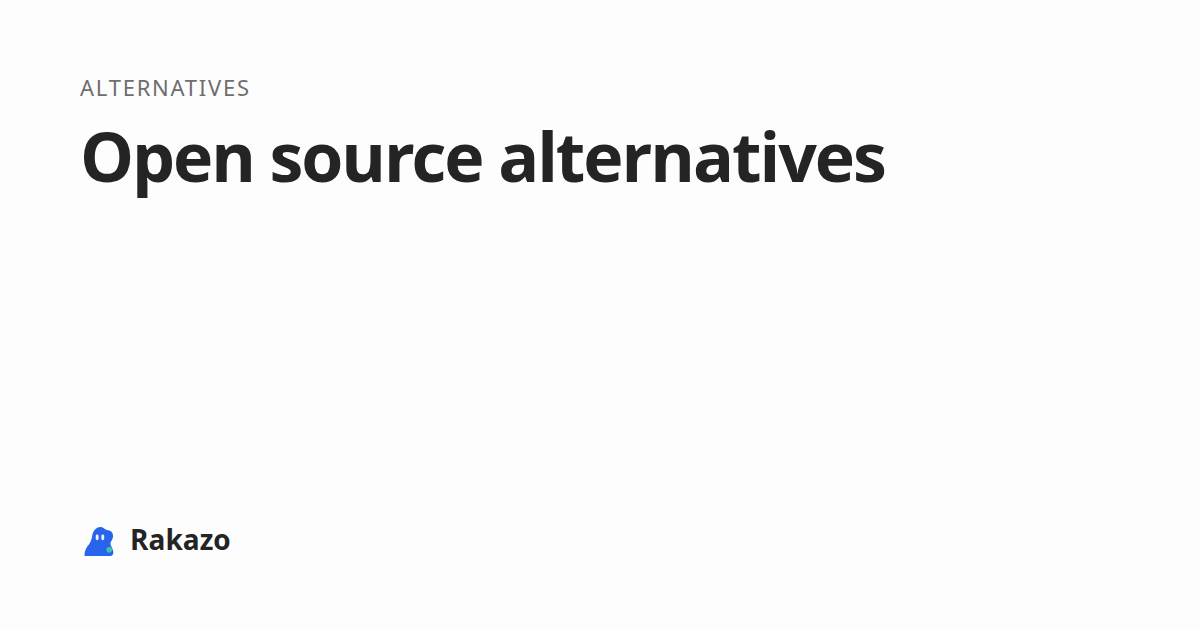
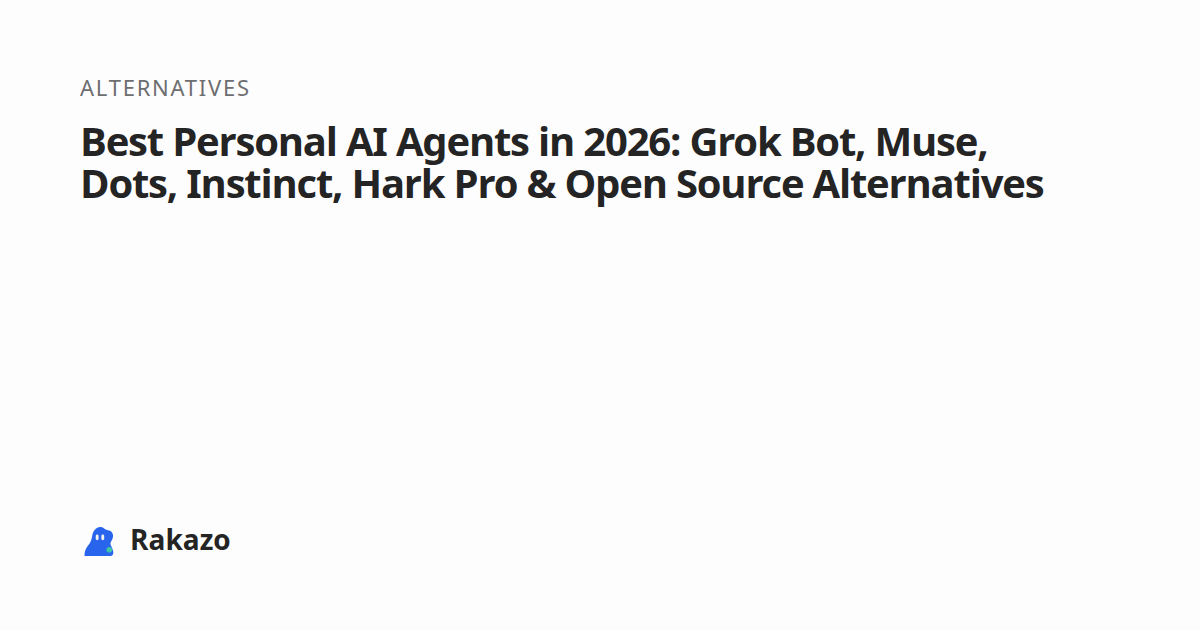
Count blog categories from the frontmatter block only.
A category line in the post body no longer changes whether a category page is indexed. The alternatives sharing image matches the roundup title.

Changed region(s): [[0.0617, 0.181, 0.8633, 0.3317]]

diff --git a/apps/www/src/blog/blog.test.ts b/apps/www/src/blog/blog.test.ts
@@ -41,10 +41,15 @@ describe("blog posts", () => {
   });
 
   it("counts quoted categories and indexes a category at three posts", () => {
-    expect(categoryFromFrontmatter('category: "roundups"\n')).toBe("roundups");
-    expect(categoryFromFrontmatter("category: roundups\n")).toBe("roundups");
-    expect(categoryFromFrontmatter("category: 'guides'\n")).toBe("guides");
-    expect(categoryFromFrontmatter('category: "nope"\n')).toBeUndefined();
+    const post = (category: string, body = "") => `---\ncategory: ${category}\n---\n${body}`;
+    expect(categoryFromFrontmatter(post('"roundups"'))).toBe("roundups");
+    expect(categoryFromFrontmatter(post("roundups"))).toBe("roundups");
+    expect(categoryFromFrontmatter(post("'guides'"))).toBe("guides");
+    expect(categoryFromFrontmatter(post('"nope"'))).toBeUndefined();
+    expect(categoryFromFrontmatter(post("guides # setup articles", "category: roundups"))).toBe(
+      "guides",
+    );
+    expect(categoryFromFrontmatter("---\ntitle: Hi\n---\ncategory: roundups\n")).toBeUndefined();
     expect(categoryIsIndexedAtCount(2)).toBe(false);
     expect(categoryIsIndexedAtCount(3)).toBe(true);
   });

diff --git a/apps/www/src/blog/indexability.ts b/apps/www/src/blog/indexability.ts
@@ -18,12 +18,14 @@ export const CATEGORY_LABEL: Record<BlogCategory, string> = {
 
 const blogDir = join(dirname(fileURLToPath(import.meta.url)), "../content/blog");
 
-const CATEGORY_LINE = /^category:\s*["']?([a-z]+)["']?\s*$/m;
+const FRONTMATTER = /^---\r?\n([\s\S]*?)\r?\n---/;
+const CATEGORY_LINE = /^category:\s*["']?([a-z]+)["']?(?:\s+#.*)?\s*$/m;
 
-/** Reads `category` from Markdown frontmatter, including quoted values. */
+/** Reads `category` from the YAML frontmatter block, including quoted values. */
 export function categoryFromFrontmatter(text: string): BlogCategory | undefined {
-  const match = CATEGORY_LINE.exec(text);
-  const category = match?.[1];
+  const block = FRONTMATTER.exec(text)?.[1];
+  if (!block) return undefined;
+  const category = CATEGORY_LINE.exec(block)?.[1];
   if (category && (BLOG_CATEGORIES as readonly string[]).includes(category)) {
     return category as BlogCategory;
   }
